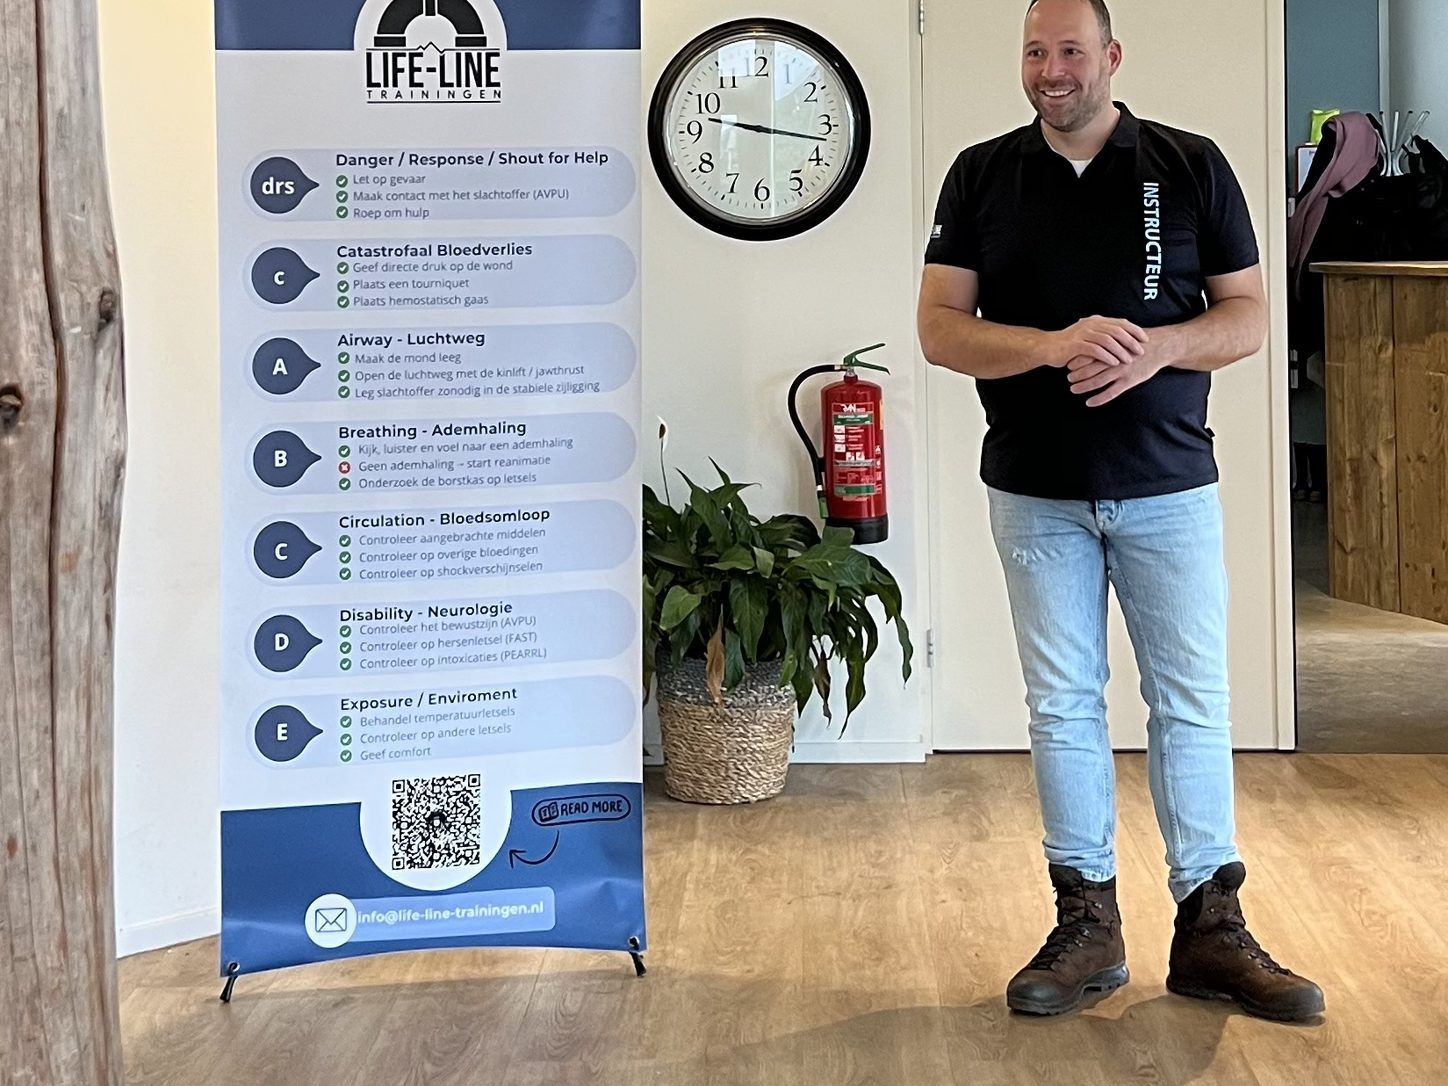
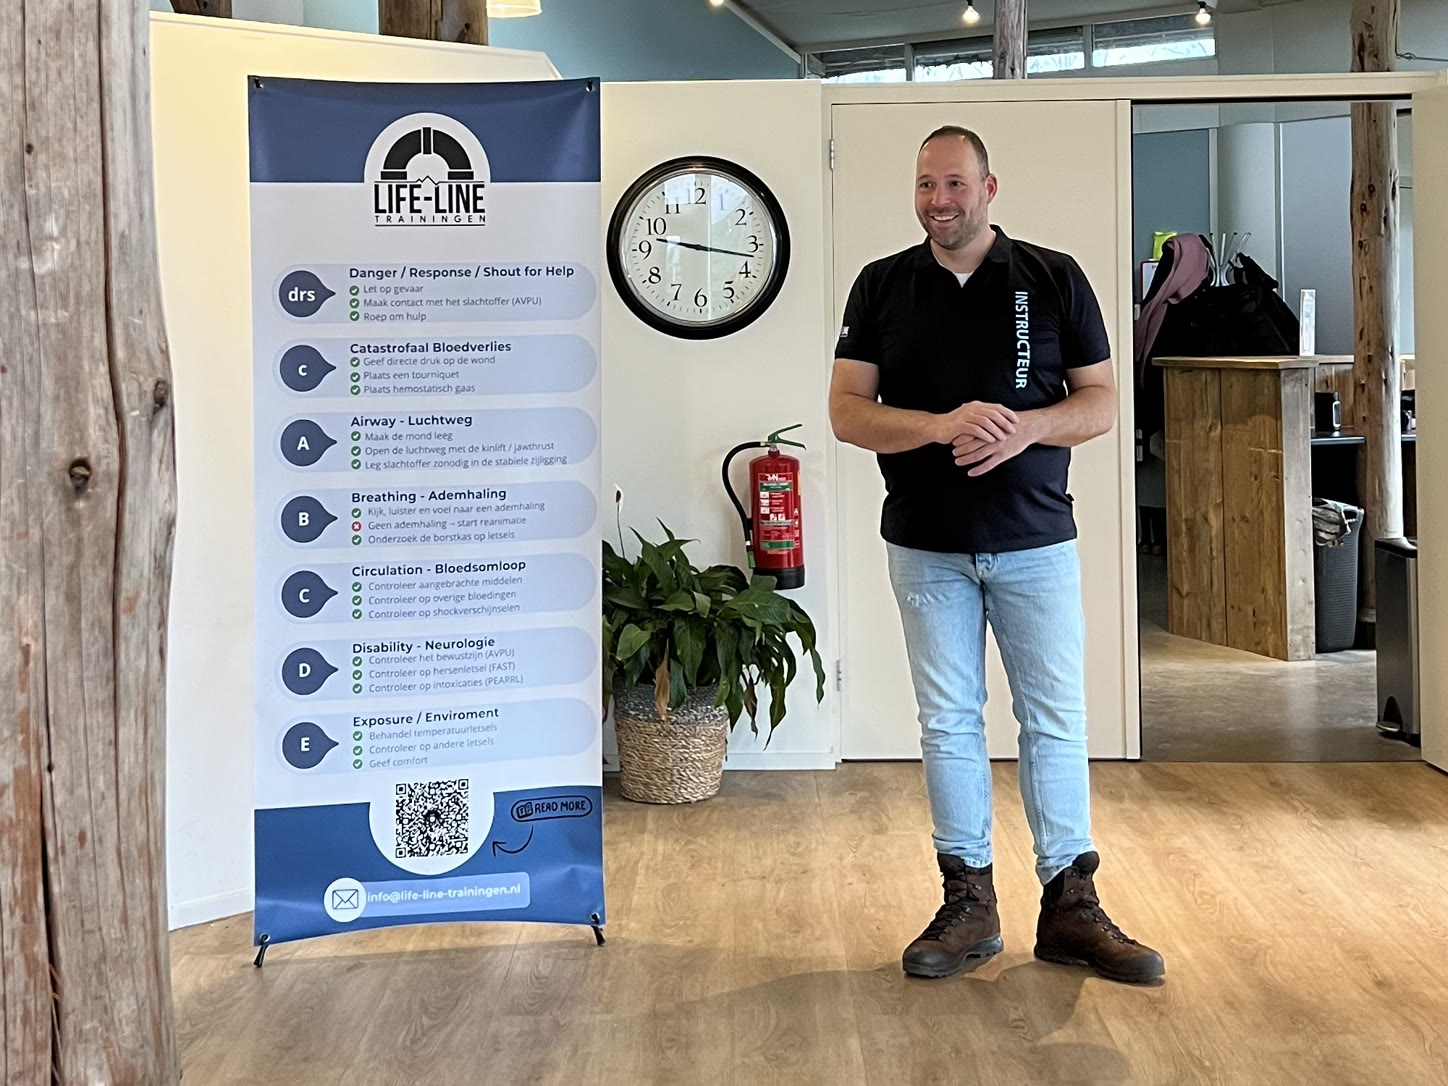
Adjust EHBO bijscholing admission photo crop

diff --git a/src/styles/global.css b/src/styles/global.css
@@ -2765,13 +2765,6 @@ h3 {
   object-position: center;
 }
 
-@media (min-width: 1101px) {
-  .ehbo-toelating-image-card img {
-    transform: scale(1.14);
-    transform-origin: center top;
-  }
-}
-
 .ehbo-balanced-photo-section .helper-image-card,
 .ehbo-toelating-image-card {
   position: relative;
@@ -2784,10 +2777,6 @@ h3 {
   inset: 0;
   min-height: 0;
   object-position: center;
-}
-
-.ehbo-toelating-image-card img {
-  object-position: center top;
 }
 
 .helper-reason-grid {
